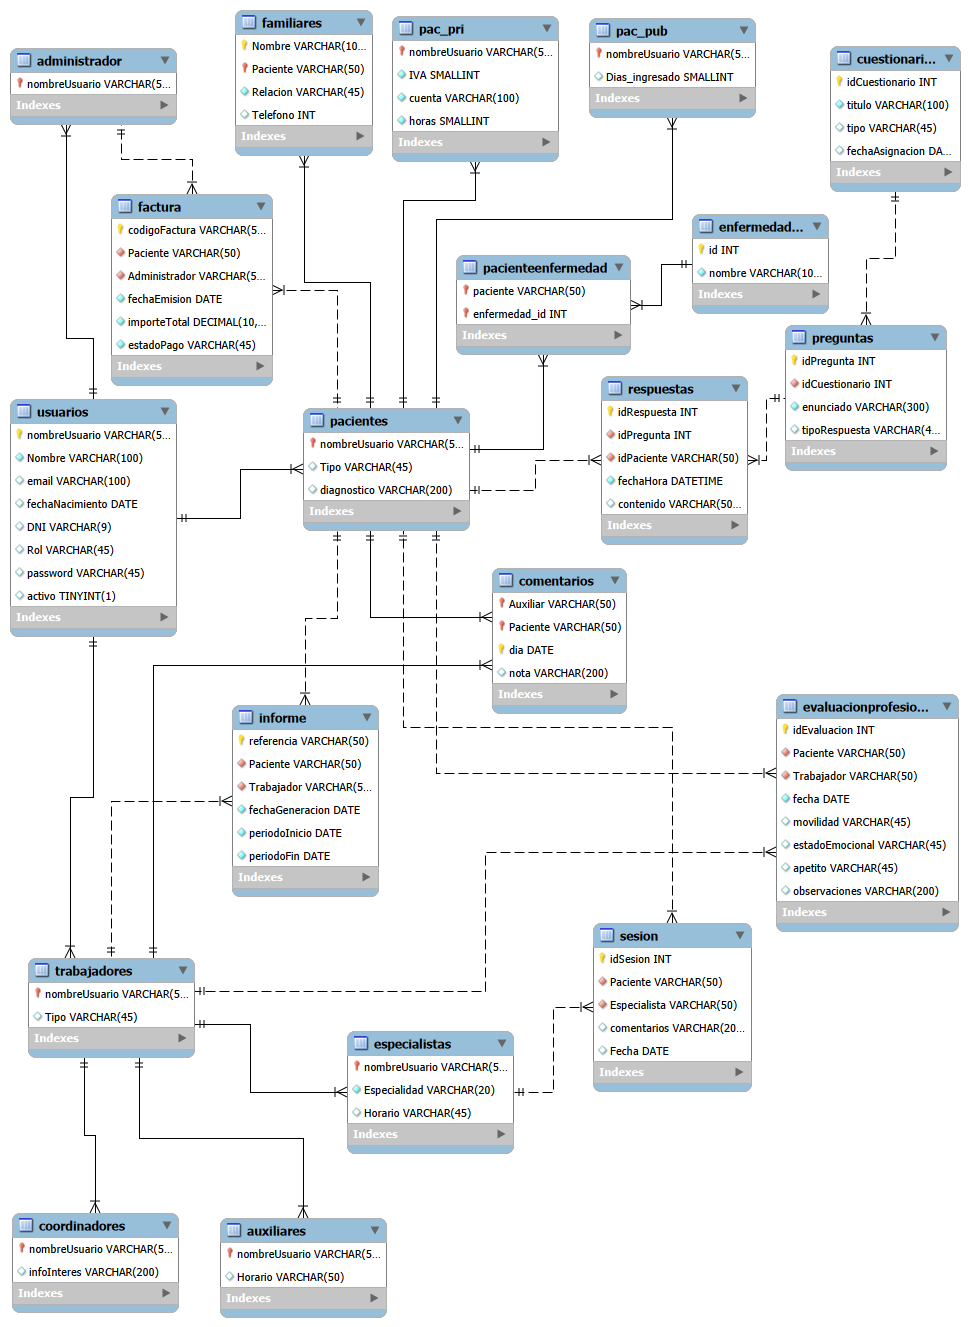
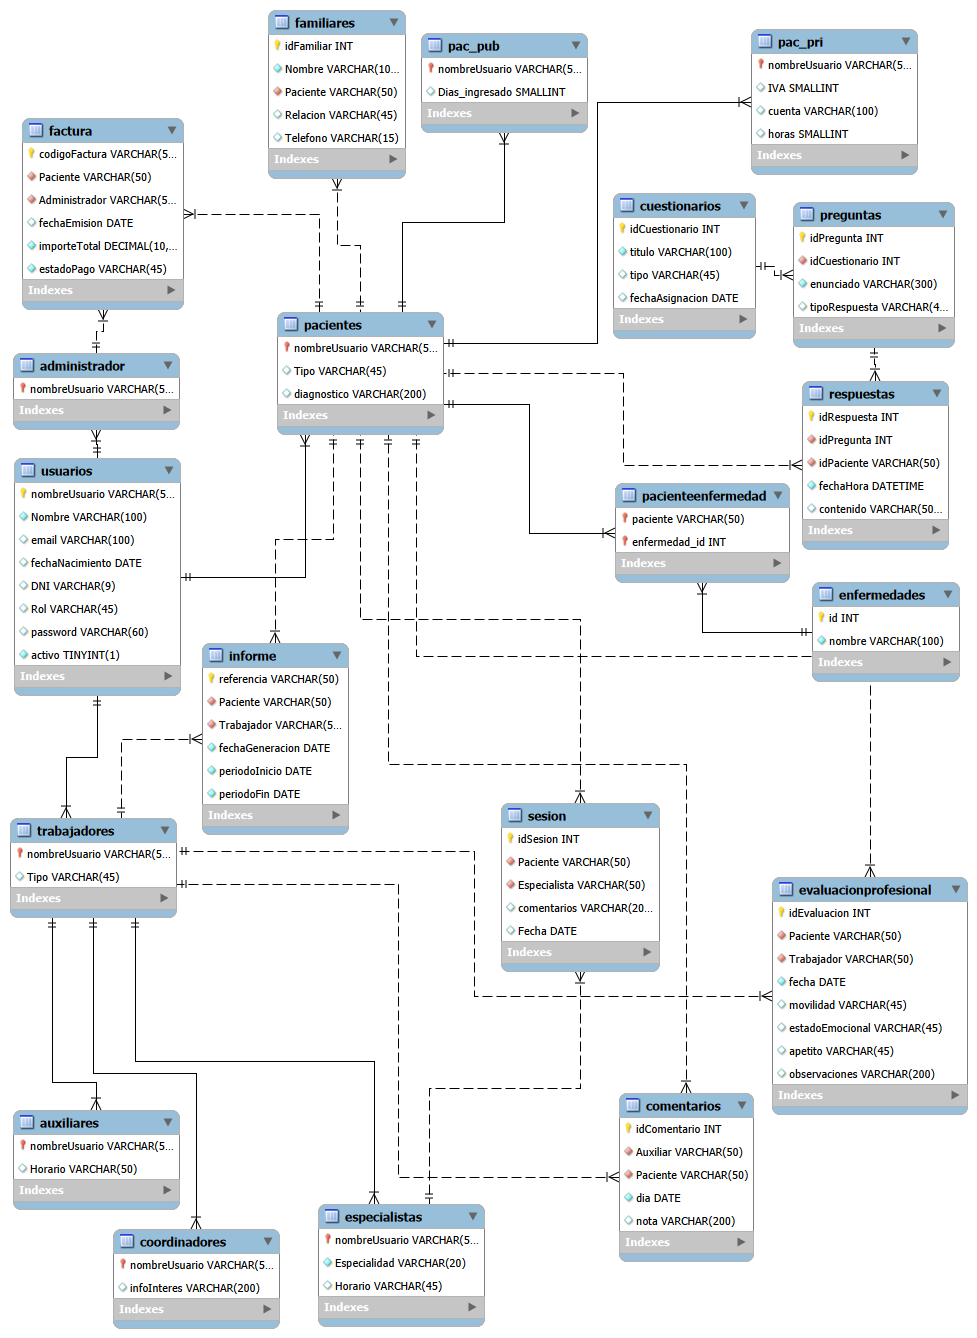
Corregido diagrama relacional

diff --git a/src/modelo/vo/familiarVO.py b/src/modelo/vo/familiarVO.py
@@ -1,12 +1,17 @@
 class Familiar:
     """VO para los familiares de un paciente"""
     
-    def __init__(self, Nombre=None, Paciente=None, Relacion='hij@', Telefono=None):
+    def __init__(self,id=None, Nombre=None, Paciente=None, Relacion='hij@', Telefono=None):
+        self._id = id
         self._nombre = Nombre
         self._paciente = Paciente      #FK -> Pacientes.nombreUsuario
         self._relacion = Relacion
         self._telefono = Telefono
     
+    @property
+    def id(self):
+        return self._id
+
     @property
     def nombre(self):
         return self._nombre
@@ -25,6 +30,7 @@ class Familiar:
 
     def to_dict(self):
         return {
+            'id': self.id,
             'nombre': self.nombre,
             'paciente': self.paciente,
             'relacion': self.relacion,
@@ -32,4 +38,4 @@ class Familiar:
         }
     
     def __repr__(self):
-        return f"<Familiar nombre={self.nombre} paciente={self.paciente}>"
+        return f"<Familiar id={self.id} nombre={self.nombre} paciente={self.paciente}>"

diff --git a/src/modelo/dao/comentarioDAO.py b/src/modelo/dao/comentarioDAO.py
@@ -6,7 +6,7 @@ GET_BY_PACIENTE = "SELECT id, Auxiliar, Paciente, dia, hora, nota FROM comentari
 GET_BY_TRABAJADOR = "SELECT id, Auxiliar, Paciente, dia, hora, nota FROM comentarios WHERE Auxiliar = ? ORDER BY dia DESC, hora DESC"
 CREATE = """INSERT INTO comentarios (Auxiliar, Paciente, dia, hora, nota)
                      VALUES (?, ?, ?, ?, ?)"""
-DELETE = "DELETE FROM comentarios WHERE Auxiliar = ? AND Paciente = ? AND dia = ?"
+DELETE = "DELETE FROM comentarios WHERE idComentrio = ?"
 
 class ComentarioDAO:
 
@@ -105,7 +105,7 @@ class ComentarioDAO:
             cursor.close()
 
     @staticmethod
-    def delete(auxiliar, paciente, dia):
+    def delete(idComentrio):
         db = Conexion()
         conn = db.get_connection()
         if conn is None:
@@ -115,7 +115,7 @@ class ComentarioDAO:
         try:
             cursor.execute(
                 DELETE,
-                (auxiliar, paciente, dia)
+                (idComentrio)
             )
             conn.commit()
             return True

diff --git a/src/modelo/dao/familiarDAO.py b/src/modelo/dao/familiarDAO.py
@@ -6,7 +6,7 @@ from mysql.connector import Error
 GET_BY_PACIENTE = "SELECT * FROM Familiares WHERE Paciente = ?"
 CREATE = """INSERT INTO Familiares (Nombre, Paciente, Relacion, Telefono)
                      VALUES (?, ?, ?, ?)"""
-DELETE = "DELETE FROM Familiares WHERE Nombre = ? AND Paciente = ?"
+DELETE = "DELETE FROM Familiares WHERE idFamiliar = ?"
 
 class FamiliarDAO:
 
@@ -56,7 +56,7 @@ class FamiliarDAO:
             cursor.close()
 
     @staticmethod
-    def delete(nombre, nombreUsuario_paciente):
+    def delete(idFamiliar):
         db = Conexion()
         conn = db.get_connection()
         if conn is None:
@@ -66,7 +66,7 @@ class FamiliarDAO:
         try:
             cursor.execute(
                 DELETE,
-                (nombre, nombreUsuario_paciente)
+                (idFamiliar)
             )
             conn.commit()
             return True